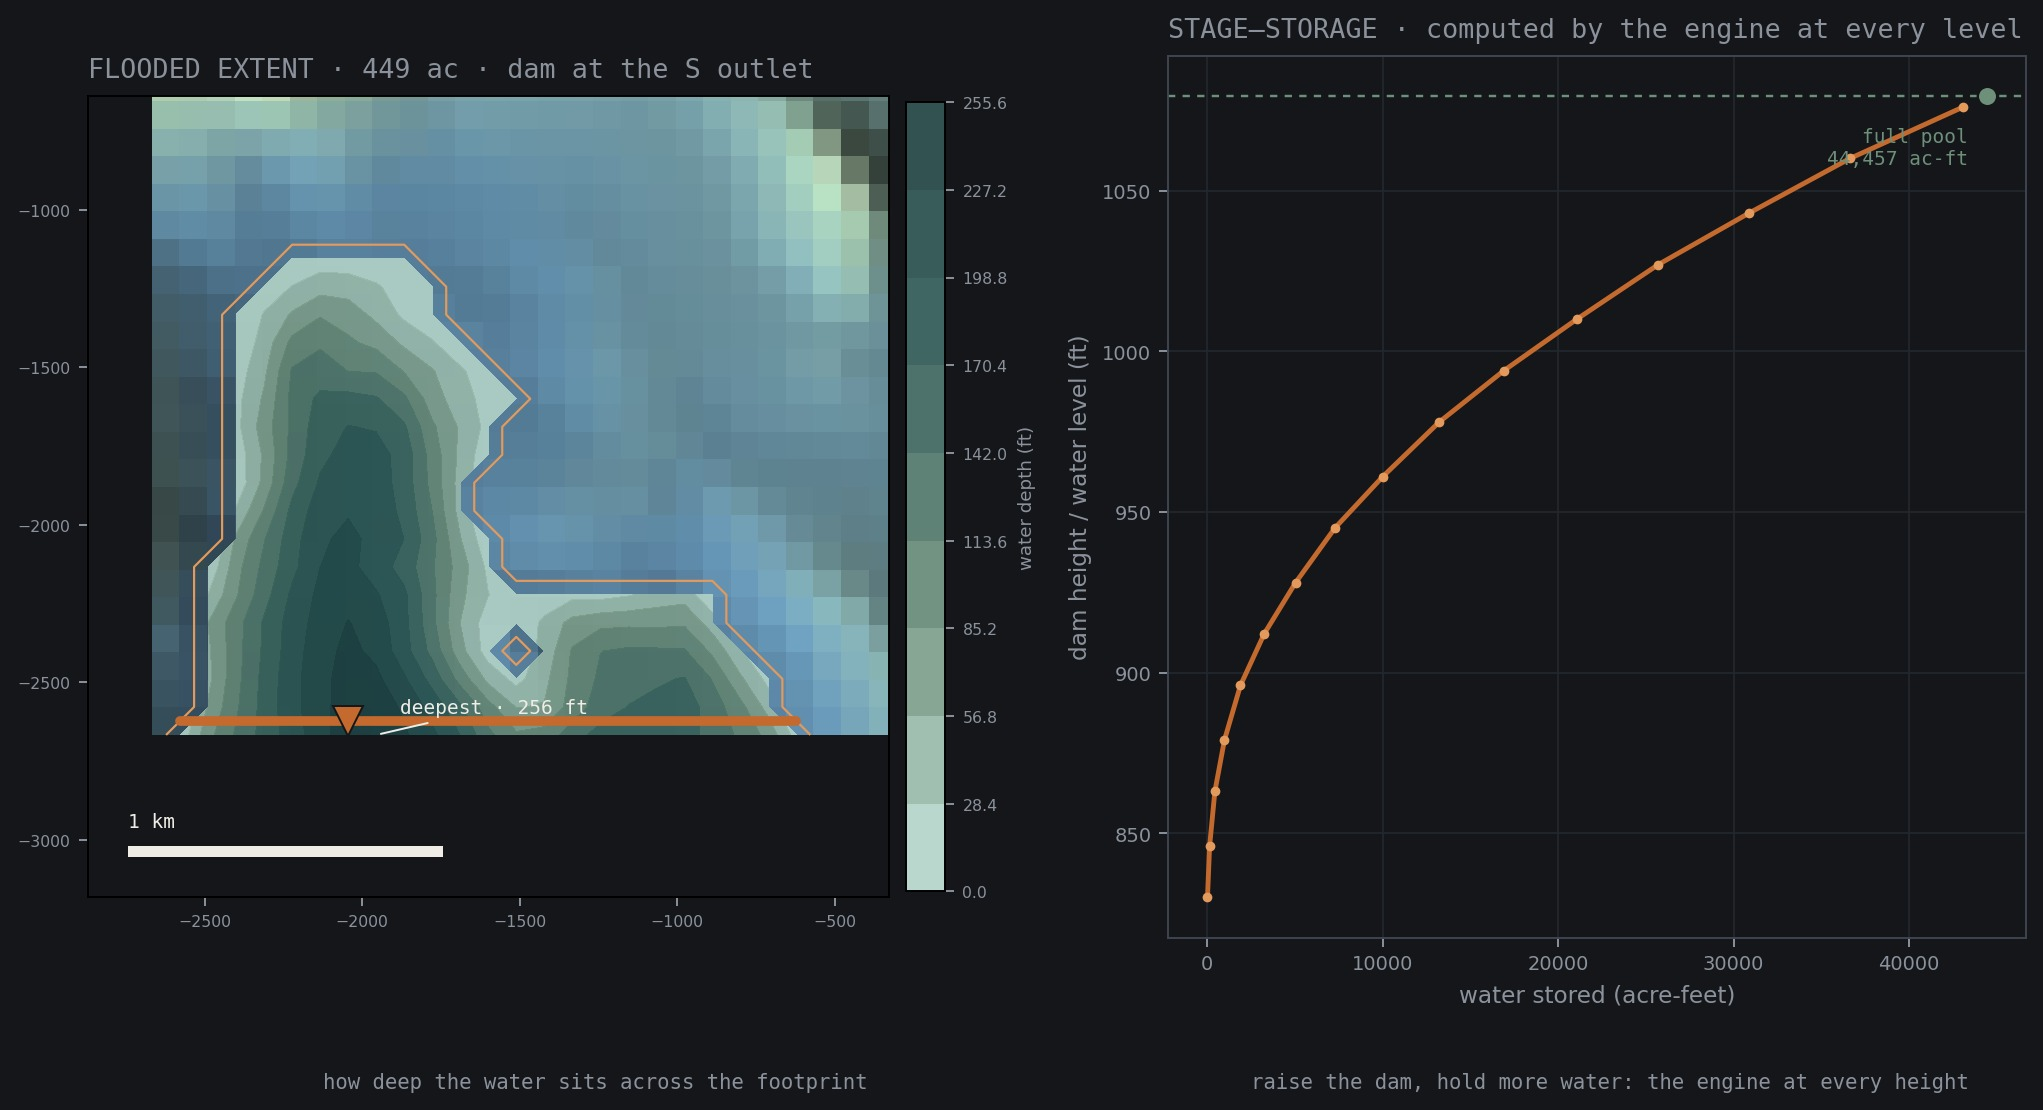
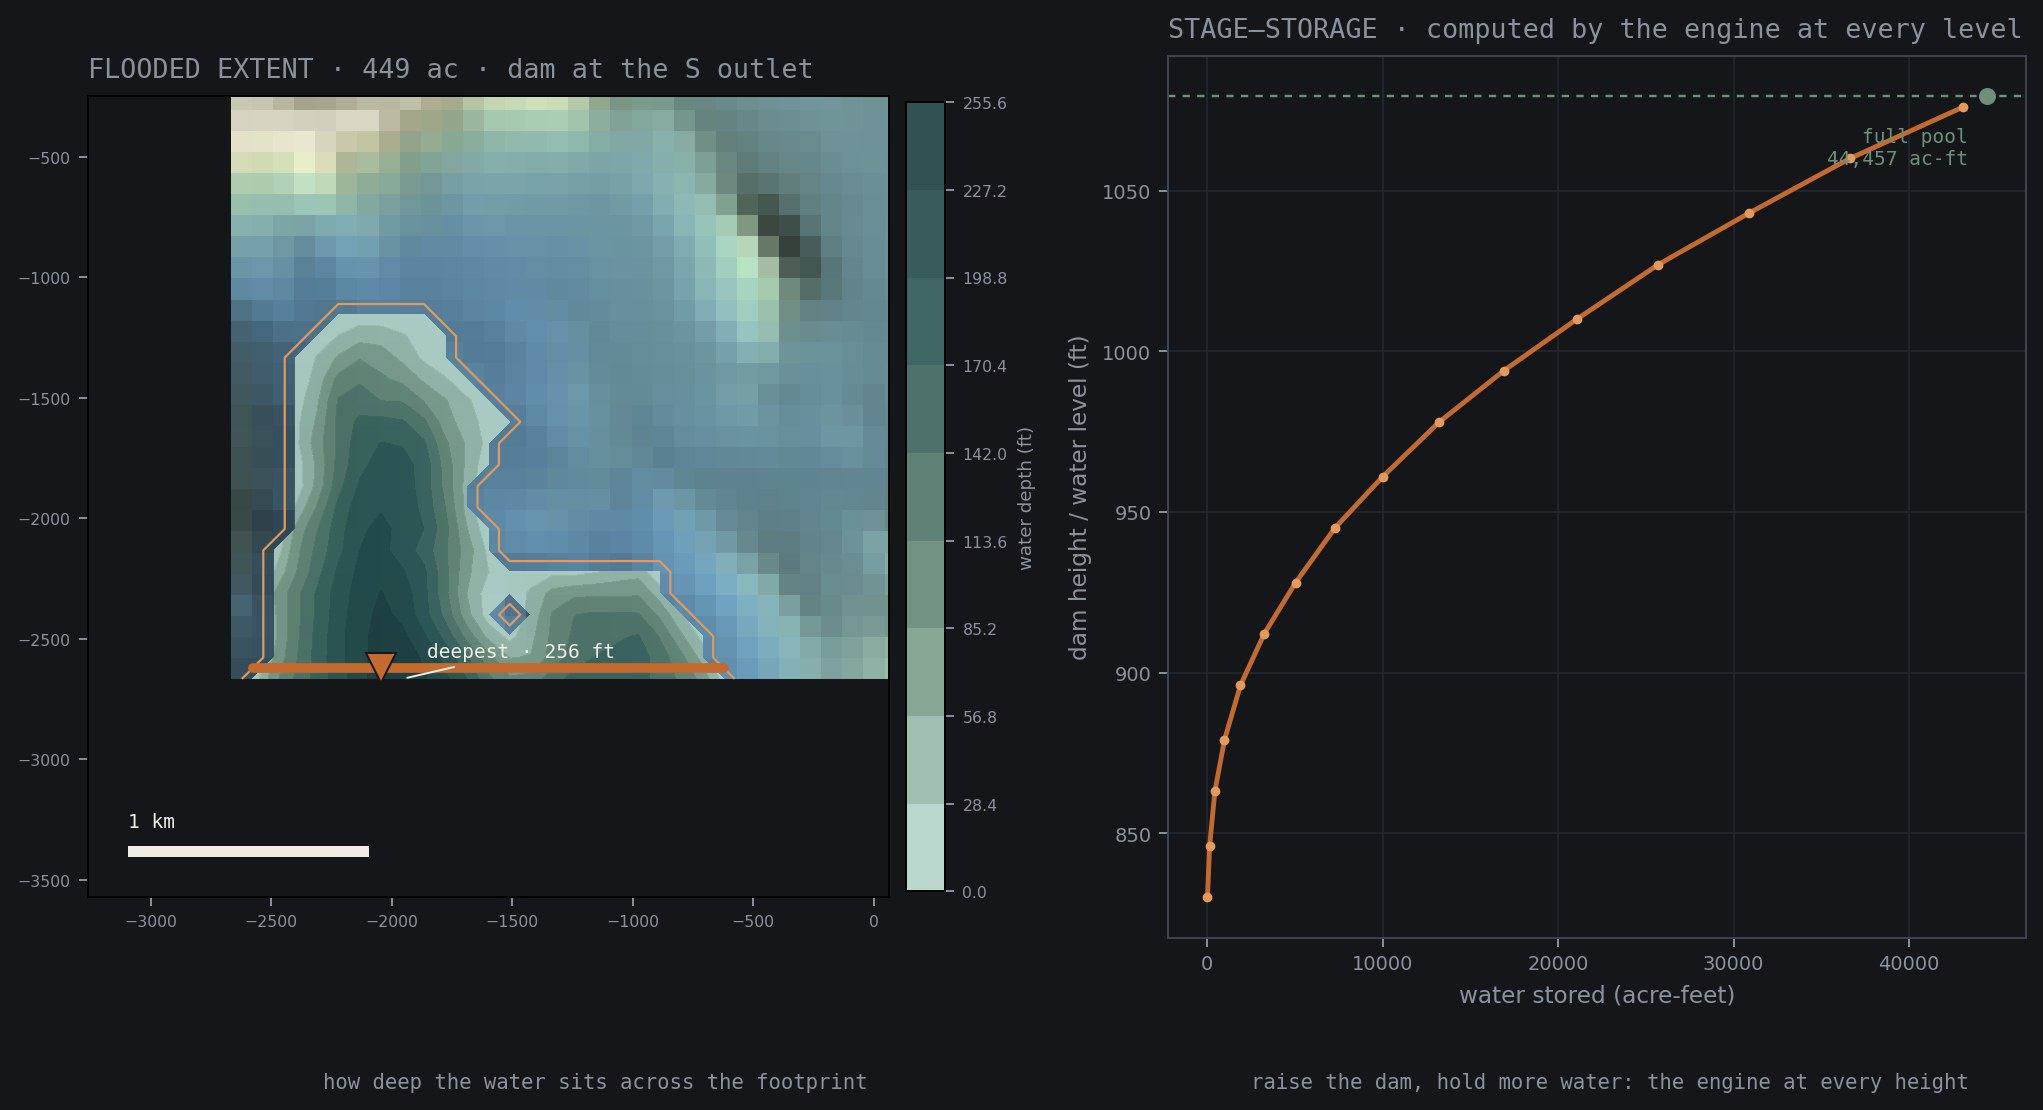
terrain: Plate 4 label for full pool; zoomed-out flooded extent; drop the earlier-render note

diff --git a/terrain-study.html b/terrain-study.html
@@ -306,7 +306,7 @@
     </figure></div>
     <div class="band figband clipfig"><figure><div class="plate"><div class="clipnarrow"><video src="media/terrain/reservoir-storm.mp4" width="1036" height="966" loop muted playsinline preload="metadata" data-autoplay aria-label="Animation: a simulated rainstorm over the canyon watershed"></video></div></div><figcaption class="plate-foot"><span class="pl">Plate 0 &#183; animated &#183; a storm over the gorge</span><span class="cap">The same storm physics over the whole catchment: the drainage network lights up, runoff concentrates, and water collects exactly in the basin the dam would use. Painted boundary and ground compass as in Study&nbsp;2. Illustrative routing, not calibrated hydrology. &#215;3.4 vertical.</span></figcaption></figure></div><div class="band figband clipfig"><figure><div class="plate"><video src="media/terrain/reservoir-comparison.mp4" width="1662" height="830" loop muted playsinline preload="metadata" data-autoplay aria-label="Animation: side by side, the canyon shedding a storm without the dam and the reservoir filling behind the dam"></video></div><figcaption class="plate-foot"><span class="pl">Plate 3 &#183; animated &#183; without the dam, with the dam</span><span class="cap">The argument for the site, side by side. Without the dam, the drainage runs out the gorge&#8217;s one outlet. With it: the dam&#8217;s footprint appears first as a phantom, drops into place, and the reservoir fills behind it while the stream below runs dry. The reservoir is the flooded basin the engine computes, not a drawn shape. &#215;3.4 vertical.</span></figcaption></figure></div><div class="band figband"><figure>
       <div class="plate"><div class="resv3"><video src="media/terrain/reservoir-fill.mp4" width="1036" height="966" loop muted playsinline preload="metadata" data-autoplay aria-label="Animation: the reservoir filling behind the dam to its computed capacity"></video><img loading="lazy" decoding="async" src="media/terrain/reservoir-capacity.jpg" alt="The flooded extent shaded by water depth with the dam and deepest point marked, and the engine's stage-storage curve, capacity at every waterline." width="2043" height="1110"></div></div>
-      <figcaption class="plate-foot"><span class="pl">Plate 3 &#183; reservoir &#183; full pool</span><span class="cap">A dam across the south outlet fills the gorge to 44,457 acre-feet. The canyon filled to the brim in a slow aerial pass (left), the flooded footprint shaded by depth with the dam and deepest point marked (middle), and the engine&#8217;s stage-storage curve, capacity at every waterline (right). The capacity is the engine&#8217;s own cut-and-fill below the waterline. Ten-meter public data; a feasibility number rather than a design survey. The aerial pass is an earlier render; its boundary marking predates the gold convention used elsewhere on this page.</span></figcaption>
+      <figcaption class="plate-foot"><span class="pl">Plate 4 &#183; reservoir &#183; full pool</span><span class="cap">A dam across the south outlet fills the gorge to 44,457 acre-feet. The canyon filled to the brim in a slow aerial pass (left), the flooded footprint shaded by depth with the dam and deepest point marked (middle), and the engine&#8217;s stage-storage curve, capacity at every waterline (right). The capacity is the engine&#8217;s own cut-and-fill below the waterline. Ten-meter public data; a feasibility number rather than a design survey.</span></figcaption>
       <div class="fkey"><b>How to read it:</b> the orange wall is the dam, darker blue is deeper water, and the curve on the right shows how much the reservoir holds as the dam is built taller.</div>
     </figure></div>
     <div class="band readout"><div class="rod">